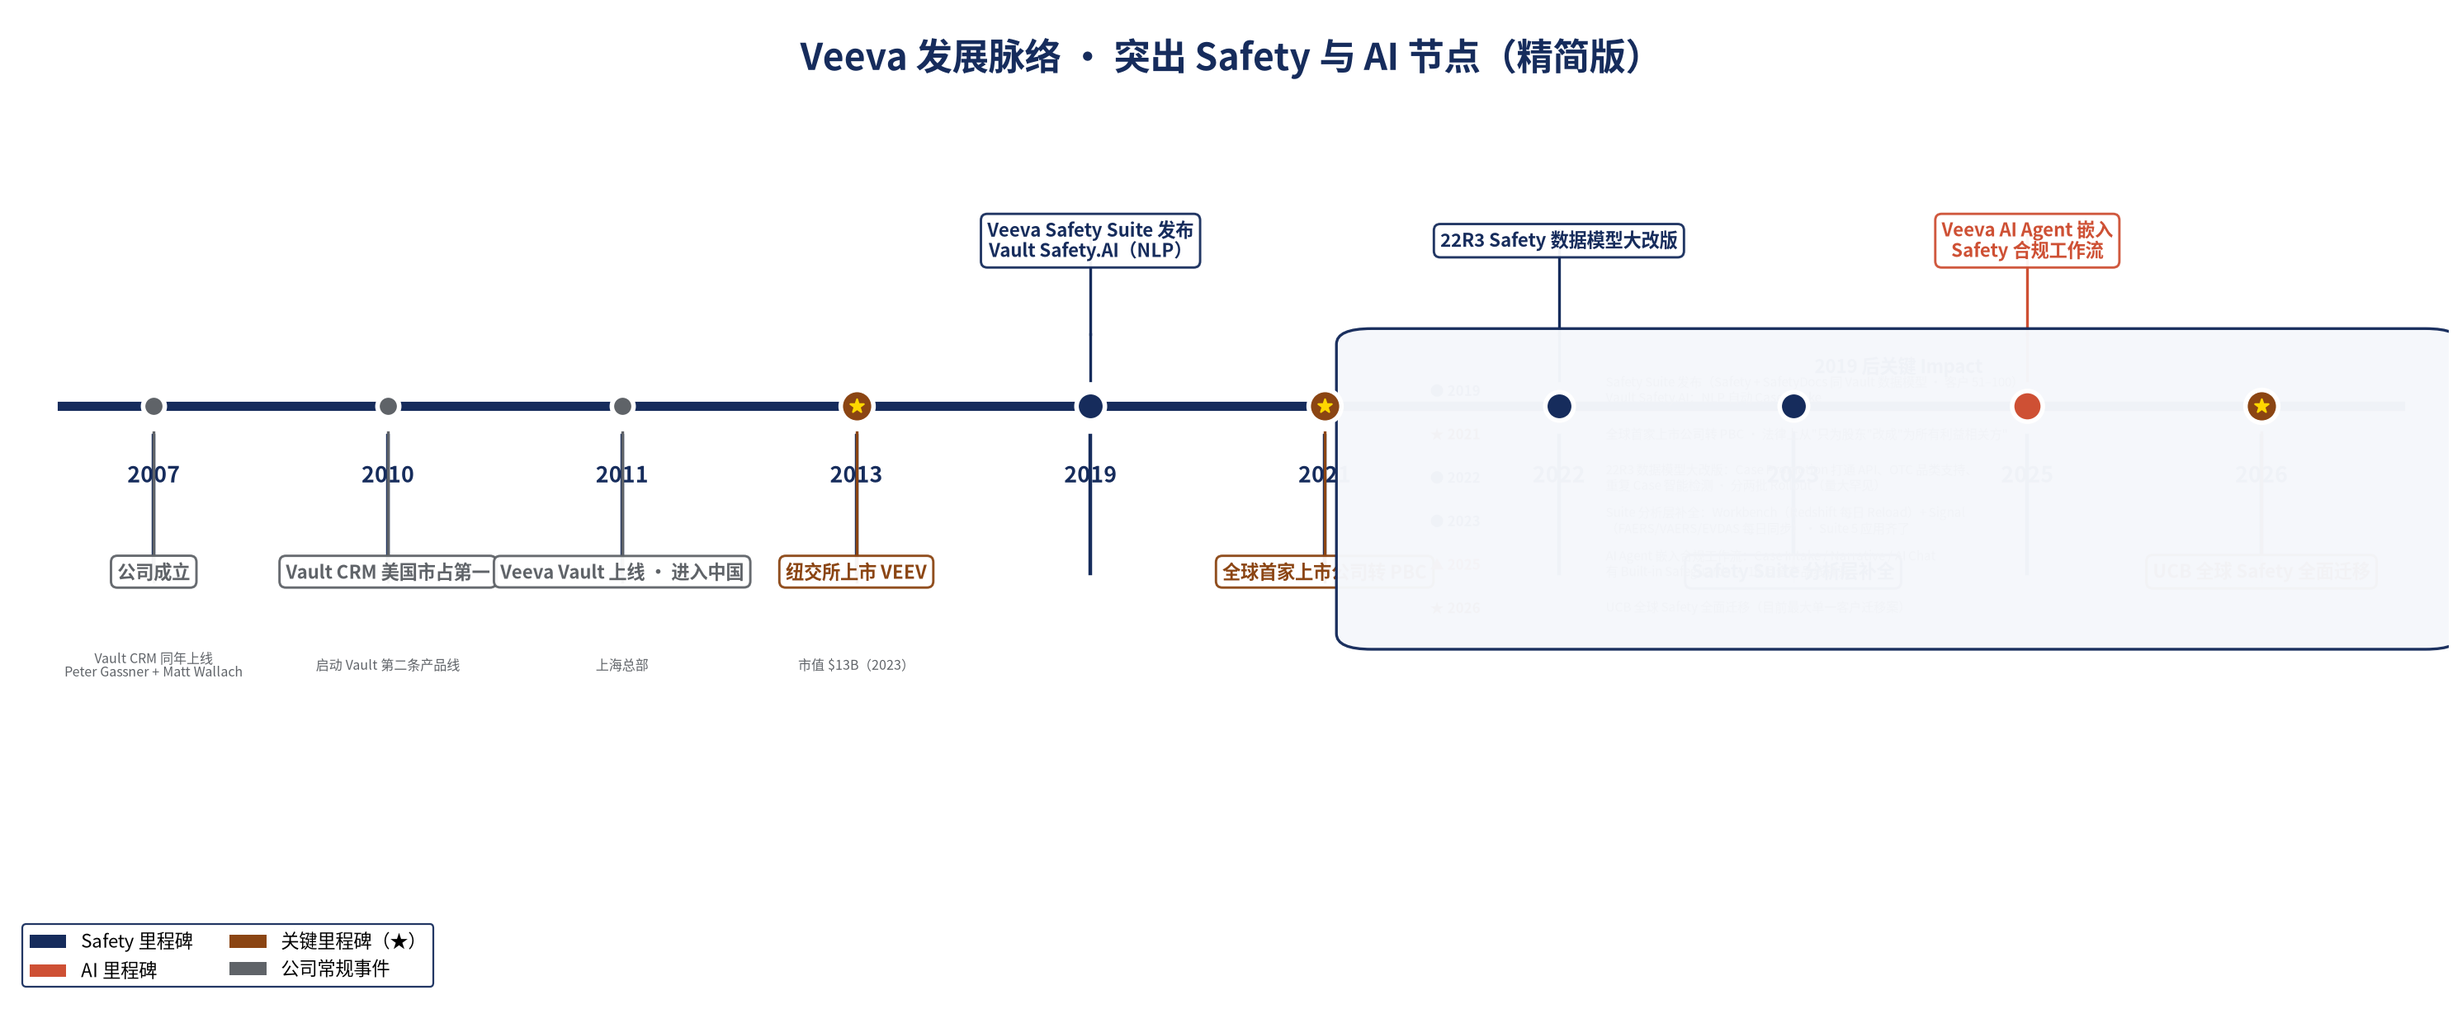
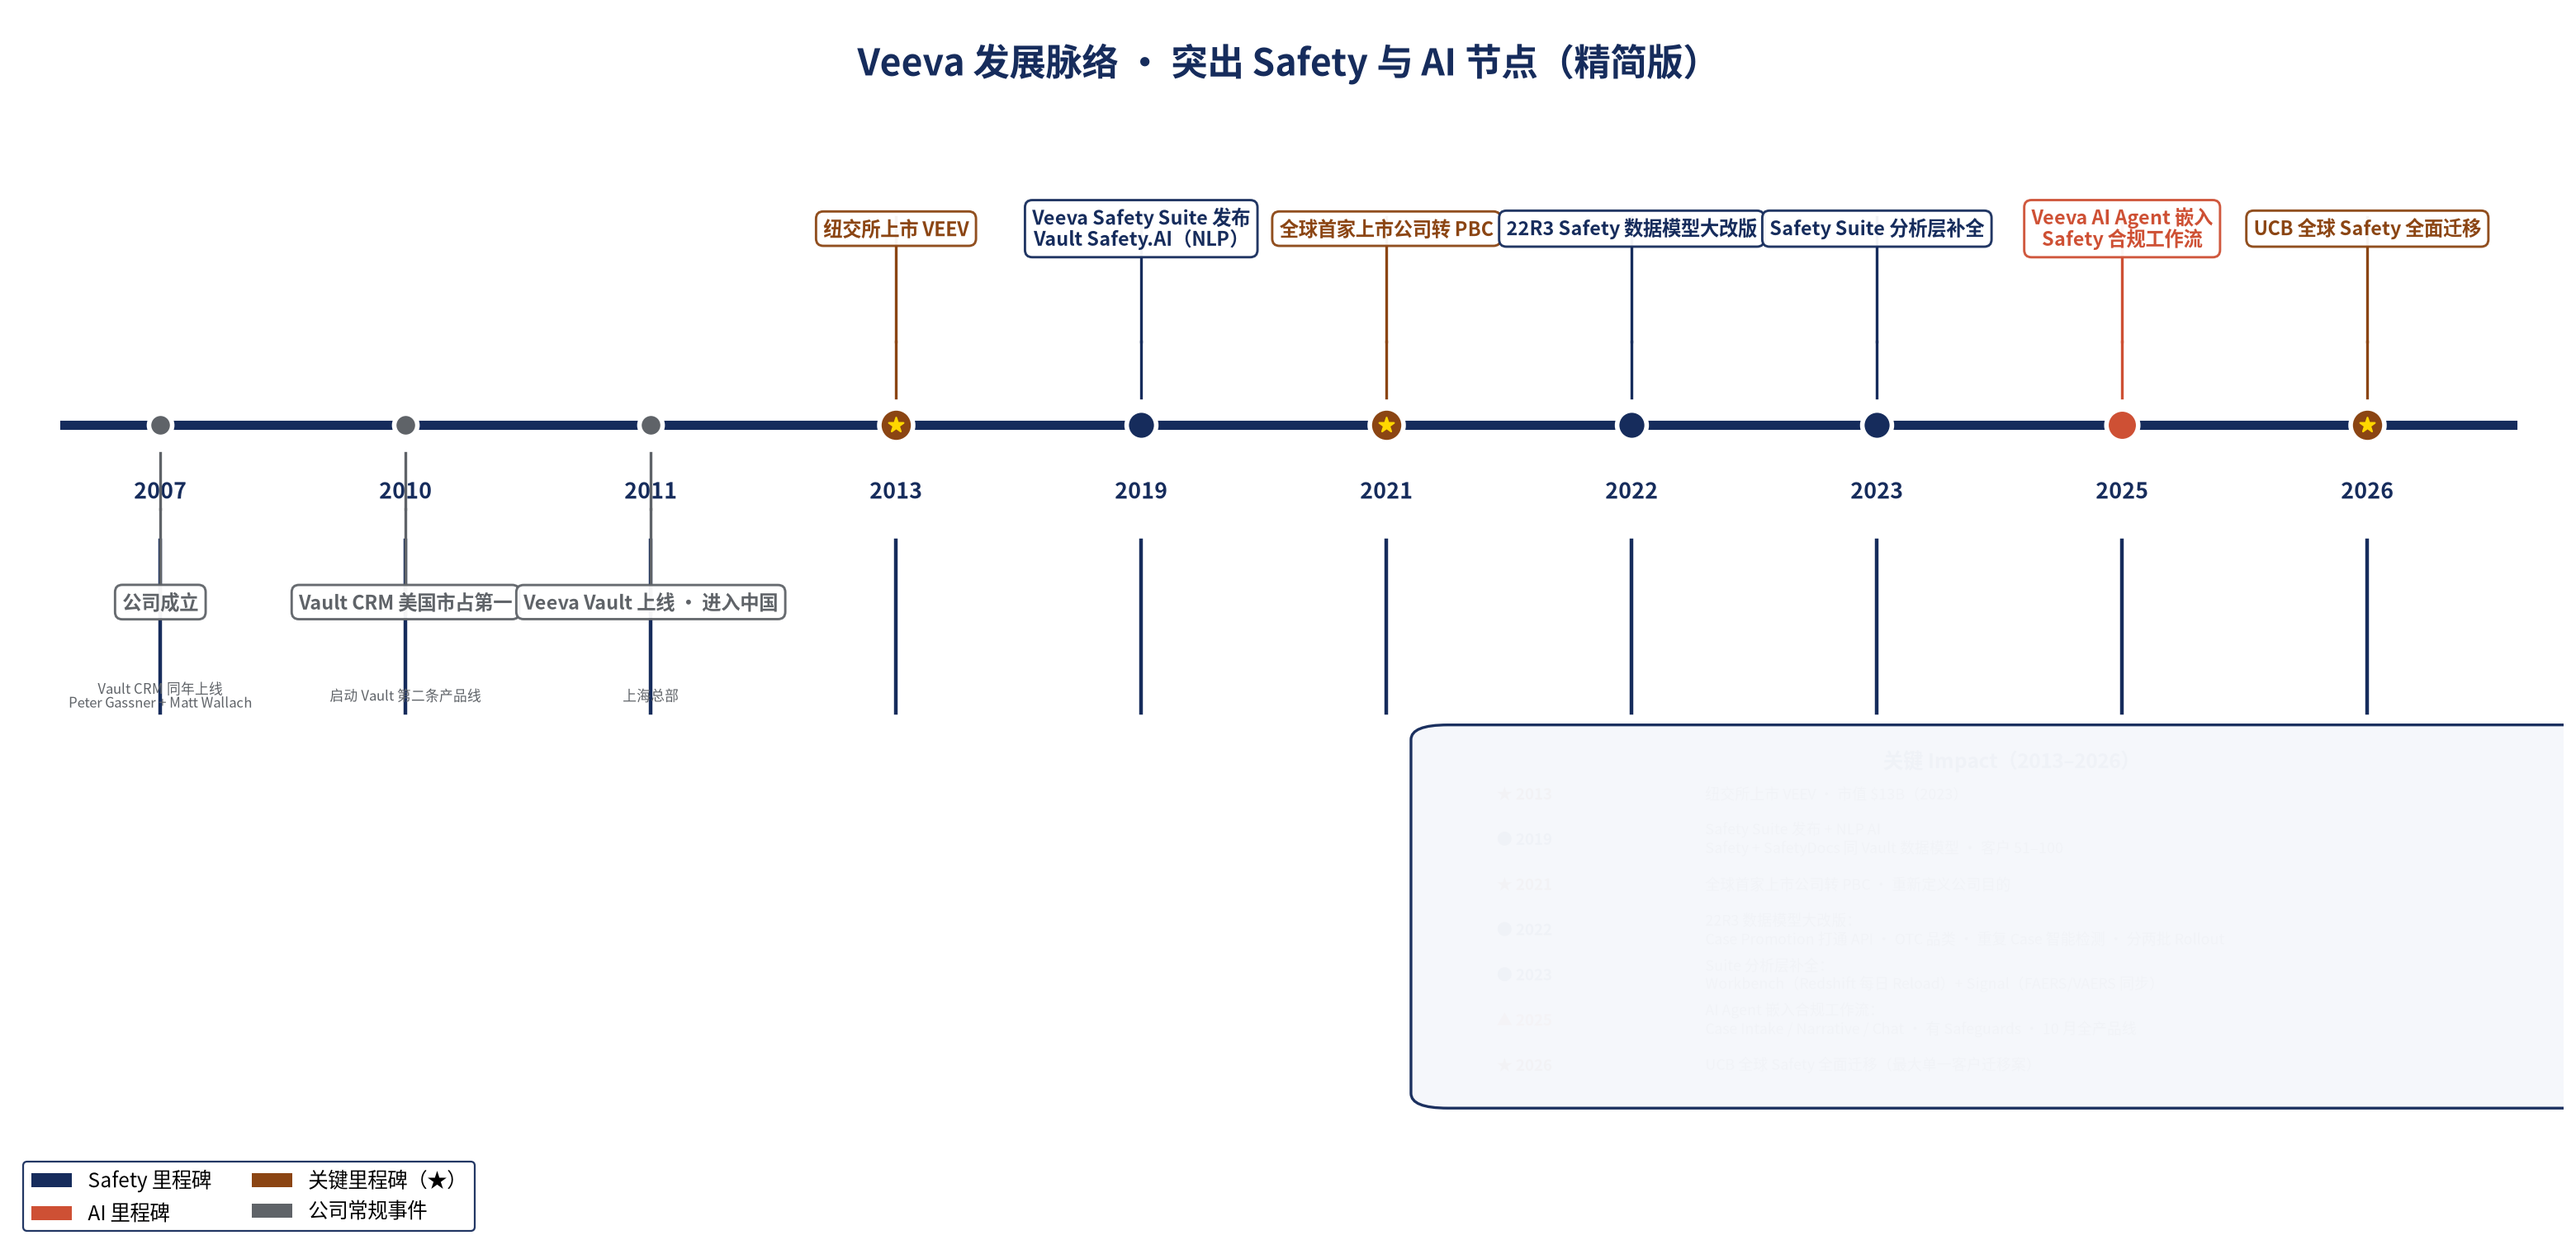
Veeva 发展脉络 v3 紧凑版：10 年等距，Impact 框右下统一

diff --git a/veeva_timeline_v3.py b/veeva_timeline_v3.py
@@ -1,8 +1,4 @@
-"""Veeva 发展脉络 v3 —— 按用户要求：
-- 10 事件紧凑等距，不限年份间隔，只体现前后关系
-- 2013 年前保留各节点自己的小字副标题
-- 2019 年后所有小字收在右下角一个统一框里，避免重叠
-"""
+"""Veeva 发展脉络 v3.1 —— 所有主事件放上方，下方完全留给 Impact 框"""
 
 import matplotlib.pyplot as plt
 import matplotlib.patches as mpatches
@@ -18,100 +14,84 @@ GRAY = '#5F6368'
 MILESTONE = '#8B4513'
 WHITE = '#FFFFFF'
 
-# ---------- 事件（紧凑等距，用整数 idx 作 x 轴） ----------
-# (idx, 年份, 主色, 主标题, 副标题_2019后统一右下)
+# (idx, 年份, 主色, 主标题, 副标题)
 events = [
-    (0,  '2007', GRAY,      '公司成立',                    'Vault CRM 同年上线\nPeter Gassner + Matt Wallach'),
-    (1,  '2010', GRAY,      'Vault CRM 美国市占第一',      '启动 Vault 第二条产品线'),
-    (2,  '2011', GRAY,      'Veeva Vault 上线 · 进入中国', '上海总部'),
-    (3,  '2013', MILESTONE, '纽交所上市 VEEV',              '市值 $13B（2023）'),
+    (0,  '2007', GRAY,      '公司成立',                       'Vault CRM 同年上线\nPeter Gassner + Matt Wallach'),
+    (1,  '2010', GRAY,      'Vault CRM 美国市占第一',         '启动 Vault 第二条产品线'),
+    (2,  '2011', GRAY,      'Veeva Vault 上线 · 进入中国',    '上海总部'),
+    (3,  '2013', MILESTONE, '纽交所上市 VEEV',                 None),
     (4,  '2019', NAVY,      'Veeva Safety Suite 发布\nVault Safety.AI（NLP）', None),
-    (5,  '2021', MILESTONE, '全球首家上市公司转 PBC',       None),
-    (6,  '2022', NAVY,      '22R3 Safety 数据模型大改版',   None),
-    (7,  '2023', NAVY,      'Safety Suite 分析层补全',      None),
+    (5,  '2021', MILESTONE, '全球首家上市公司转 PBC',          None),
+    (6,  '2022', NAVY,      '22R3 Safety 数据模型大改版',      None),
+    (7,  '2023', NAVY,      'Safety Suite 分析层补全',          None),
     (8,  '2025', ACCENT,    'Veeva AI Agent 嵌入\nSafety 合规工作流', None),
-    (9,  '2026', MILESTONE, 'UCB 全球 Safety 全面迁移',    None),
+    (9,  '2026', MILESTONE, 'UCB 全球 Safety 全面迁移',         None),
 ]
 
-# ---------- 画布（更紧凑） ----------
-fig, ax = plt.subplots(figsize=(19, 8))
-
+fig, ax = plt.subplots(figsize=(20, 10))
 n = len(events)
 ax.set_xlim(-0.6, n - 0.2)
-ax.set_ylim(-1.5, 8)
+ax.set_ylim(-1.5, 11)
 ax.set_aspect('auto')
 
-# ---------- 紧凑时间轴线 ----------
-timeline_y = 4.2
+# 时间轴
+timeline_y = 6.8
 ax.axhline(y=timeline_y, xmin=0.02, xmax=0.98, color=NAVY, linewidth=5, zorder=1)
 
-# ---------- 年份刻度 ----------
+# 年份刻度
 for idx, yr, *_ in events:
     ax.axvline(x=idx, ymin=0.43, ymax=0.57, color=NAVY, linewidth=2, zorder=2)
     ax.text(idx, timeline_y - 0.55, yr, ha='center', va='top',
             fontsize=12, fontweight='bold', color=NAVY)
 
-# ---------- 事件节点 ----------
-# 交替上下，但因为紧凑，上放节点 + 主标题，下方留空间给 2013 前的小字
-# 2019 后统一放上方，下方给右下副标题框让位
-
-upper_nodes = {4, 6, 8}   # 2019/2022/2025 放上方
-lower_nodes = {0, 1, 2, 3, 5, 7, 9}  # 2007/2010/2011/2013/2021/2023/2026 放下方
+# ---------- 节点布局 ----------
+# 上方 (7 个主事件): idx 3,4,5,6,7,8,9 —— 全部 Safety/AI/Milestone
+# 下方 (3 个公司事件): idx 0,1,2
+upper = {3, 4, 5, 6, 7, 8, 9}
 
 for idx, yr, color, title, sub in events:
     # 节点大小
-    if color == MILESTONE:
-        dot_size = 320
-    elif color == NAVY:
-        dot_size = 240
-    elif color == ACCENT:
-        dot_size = 280
-    else:
-        dot_size = 140
+    if color == MILESTONE: dot_size = 340
+    elif color == NAVY:    dot_size = 260
+    elif color == ACCENT:  dot_size = 300
+    else:                  dot_size = 160
 
     ax.scatter(idx, timeline_y, s=dot_size, color=color, zorder=5,
                edgecolors=WHITE, linewidths=2.5)
     if color == MILESTONE:
-        ax.scatter(idx, timeline_y, s=60, color='gold', marker='*', zorder=6)
+        ax.scatter(idx, timeline_y, s=70, color='gold', marker='*', zorder=6)
 
-    # 位置
-    is_upper = idx in upper_nodes
-    if is_upper:
-        label_base_y = timeline_y + 1.6
-        dir_sign = 1
-    else:
-        label_base_y = timeline_y - 1.6
-        dir_sign = -1
+    is_upper = idx in upper
+    dir_sign = 1 if is_upper else -1
+    base_y = timeline_y + dir_sign * (2.0 if is_upper else 1.8)
 
-    # 垂直连接线
-    connector_y = timeline_y + dir_sign * 0.7
-    ax.plot([idx, idx], [timeline_y + dir_sign * 0.25, connector_y],
+    # 连接线
+    conn_y = timeline_y + dir_sign * 0.85
+    ax.plot([idx, idx], [timeline_y + dir_sign * 0.28, conn_y],
             color=color, lw=1.5, zorder=3)
-    ax.plot([idx, idx], [connector_y, label_base_y + dir_sign * 0.1],
+    ax.plot([idx, idx], [conn_y, base_y + dir_sign * 0.12],
             color=color, lw=1.5, zorder=3)
 
-    # 主标题（带白框）
-    title_wrapped = title
-    ax.text(idx, label_base_y, title_wrapped, ha='center', va='center',
-            fontsize=10, fontweight='bold', color=color,
-            bbox=dict(boxstyle='round,pad=0.35', facecolor=WHITE, edgecolor=color,
+    # 主标题
+    ax.text(idx, base_y, title, ha='center', va='center',
+            fontsize=10.5, fontweight='bold', color=color,
+            bbox=dict(boxstyle='round,pad=0.38', facecolor=WHITE, edgecolor=color,
                       alpha=0.95, linewidth=1.3))
 
-    # 2013 前的小字副标题（各自独立）
-    if sub and idx <= 3:
-        sub_y = label_base_y + dir_sign * 0.9
-        ax.text(idx, sub_y, sub, ha='center', va='center',
-                fontsize=7.2, color=GRAY, style='italic',
+    # 下方公司事件自己的副标题
+    if sub and not is_upper:
+        ax.text(idx, base_y + dir_sign * 0.95, sub,
+                ha='center', va='center', fontsize=7.5, color=GRAY, style='italic',
                 multialignment='center')
 
-# ---------- 右下角统一框：2019 后所有事件的 Impact 小字 ----------
-# 往上挪，避开 2023/2026 节点下方的区域
-right_box_x = n - 0.30  # 右边缘（离画布右边留点边）
-right_box_y = 2.0       # 往上挪到 timeline 下方区域中间
-right_box_w = 4.5
-right_box_h = 2.8
+# ---------- 右下角 Impact 框 ----------
+# 完全在 timeline 下方（y: 0.0 ~ 3.8），不和任何下方节点冲突（只有 idx 0,1,2 有下方内容）
+right_box_x = n - 0.15
+right_box_y = 0.0
+right_box_w = 4.6
+right_box_h = 3.6
 
-# 背景框
+# 框在画布右边区域（x 从 5.25 到 9.85），避开 idx 0,1,2 下方区域（x=0~2）
 right_box = FancyBboxPatch(
     (right_box_x - right_box_w, right_box_y),
     right_box_w, right_box_h,
@@ -120,67 +100,56 @@ right_box = FancyBboxPatch(
 )
 ax.add_patch(right_box)
 
-# 框标题
 ax.text(right_box_x - right_box_w / 2, right_box_y + right_box_h - 0.22,
-        '2019 后关键 Impact',
-        ha='center', va='center', fontsize=10, fontweight='bold', color=NAVY)
+        '关键 Impact（2013–2026）',
+        ha='center', va='center', fontsize=11, fontweight='bold', color=NAVY)
 
-# Impact 条目（带 bullet point）
 impact_lines = [
-    ('●', '2019', 'Safety Suite 发布（Safety + SafetyDocs 同 Vault 数据模型 · 客户 51–100）\nVault Safety.AI：NLP 自动 Case Intake'),
-    ('★', '2021', '全球首家上市公司转 PBC · 法律上从"只为股东"改成"为所有利益相关方"'),
-    ('●', '2022', '22R3 数据模型大改版：Case Promotion 打通 API、OTC 品类支持、\n重复 Case 智能检测 · 分两批 Rollout（量大罕见）'),
-    ('●', '2023', 'Suite 分析层补全：Workbench（Redshift 每日 Reload）+ Signal\n（FAERS/VAERS/EVDAS 每日同步）· Suite 5 应用齐了'),
-    ('▲', '2025', 'AI Agent 嵌入合规工作流：Case Intake / Narrative / AI Chat\n有 Built-in Safeguards · 10 月全产品线铺开'),
-    ('★', '2026', 'UCB 全球 Safety 全面迁移（目前最大单一客户迁移案）'),
+    ('★', '2013', '纽交所上市 VEEV · 市值 $13B（2023）'),
+    ('●', '2019', 'Safety Suite 发布 + NLP AI\nSafety + SafetyDocs 同 Vault 数据模型 · 客户 51–100'),
+    ('★', '2021', '全球首家上市公司转 PBC · 重新定义公司目的'),
+    ('●', '2022', '22R3 数据模型大改版：\nCase Promotion 打通 API · OTC 品类 · 重复 Case 智能检测 · 分两批 Rollout'),
+    ('●', '2023', 'Suite 分析层补全：\nWorkbench（Redshift 每日 Reload）+ Signal（FAERS/VAERS 同步）'),
+    ('▲', '2025', 'AI Agent 嵌入合规工作流：\nCase Intake / Narrative / Chat · 有 Safeguards · 10 月全产品线'),
+    ('★', '2026', 'UCB 全球 Safety 全面迁移（最大单一客户迁移案）'),
 ]
 
-impact_start_y = right_box_y + right_box_h - 0.45
-line_spacing = 0.42
-
-bullet_colors = {
-    '●': NAVY,
-    '★': MILESTONE,
-    '▲': ACCENT,
-}
+bullet_colors = {'●': NAVY, '★': MILESTONE, '▲': ACCENT}
+impact_start_y = right_box_y + right_box_h - 0.55
+line_spacing = 0.46
 
 for i, (bullet, yr, text) in enumerate(impact_lines):
     y = impact_start_y - i * line_spacing
     col = bullet_colors.get(bullet, GRAY)
-    # 年份 + bullet
-    ax.text(right_box_x - right_box_w + 0.25, y, f'{bullet} {yr}',
-            ha='left', va='center', fontsize=7.5, fontweight='bold', color=col)
-    # 正文（用空格对齐，fontsize 更小）
-    ax.text(right_box_x - right_box_w + 1.0, y, text,
-            ha='left', va='center', fontsize=6.8, color=GRAY,
-            multialignment='left', linespacing=1.25)
+    ax.text(right_box_x - right_box_w + 0.2, y, f'{bullet} {yr}',
+            ha='left', va='center', fontsize=8.5, fontweight='bold', color=col)
+    ax.text(right_box_x - right_box_w + 1.05, y, text,
+            ha='left', va='center', fontsize=8, color=GRAY,
+            multialignment='left', linespacing=1.28)
 
-# ---------- 上方统一框：标题 + 图例 ----------
+# ---------- 标题 + 图例 ----------
 ax.text(0.5, 0.975, 'Veeva 发展脉络 · 突出 Safety 与 AI 节点（精简版）',
         transform=ax.transAxes, ha='center', va='top',
         fontsize=20, fontweight='bold', color=NAVY)
 
-# ---------- 图例 ----------
 legend_elements = [
     mpatches.Patch(facecolor=NAVY, label='Safety 里程碑'),
     mpatches.Patch(facecolor=ACCENT, label='AI 里程碑'),
     mpatches.Patch(facecolor=MILESTONE, label='关键里程碑（★）'),
     mpatches.Patch(facecolor=GRAY, label='公司常规事件'),
 ]
-legend = ax.legend(handles=legend_elements, loc='lower left', fontsize=10,
+legend = ax.legend(handles=legend_elements, loc='lower left', fontsize=11,
                   frameon=True, facecolor=WHITE, edgecolor=NAVY,
                   framealpha=0.95, ncol=2)
 
-# ---------- 清理 ----------
 ax.set_yticks([])
-ax.set_xticks([e[0] for e in events])
 ax.spines['left'].set_visible(False)
 ax.spines['right'].set_visible(False)
 ax.spines['top'].set_visible(False)
 ax.spines['bottom'].set_visible(False)
 ax.tick_params(axis='x', which='both', bottom=False, top=False, labelbottom=False)
 
-plt.tight_layout(pad=2.0)
+plt.tight_layout(pad=2.5)
 out = '/workspace/Veeva发展脉络_v3_紧凑版.png'
 plt.savefig(out, dpi=160, bbox_inches='tight', facecolor=WHITE)
 print(f'saved {out}')
